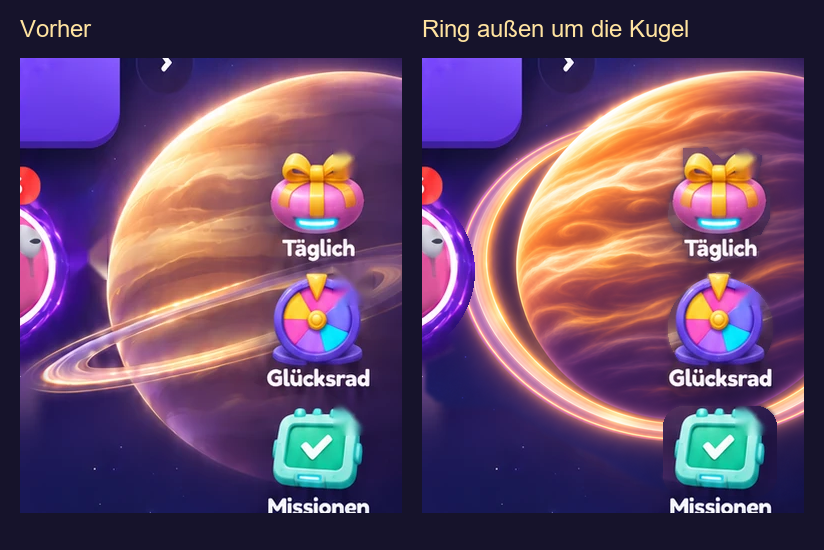
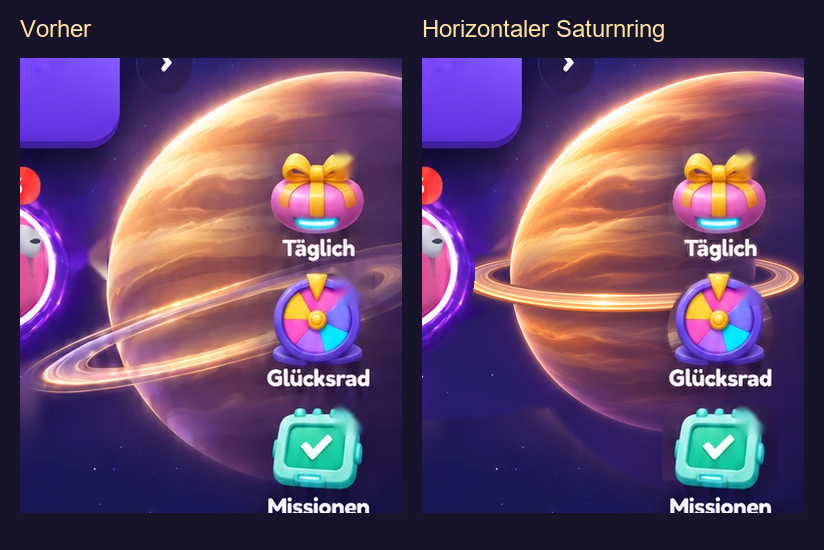
Ringplanet als horizontalen Saturnring um den Äquator korrigieren

diff --git a/Vorlage_Raw/Hauptbildschirm_Comic_v5/LIESMICH_CLAUDE.md b/Vorlage_Raw/Hauptbildschirm_Comic_v5/LIESMICH_CLAUDE.md
@@ -1,9 +1,9 @@
 # Hauptbildschirm – erneute Ringkorrektur
 
-Stand 09.11.2026, Revision v6. Der Liefername `hauptbildschirm_aktuell_v5.png` bleibt für den bestehenden Einbau erhalten und ersetzt die vorherige missverständliche Ringfassung.
+Stand 09.11.2026, Revision v7. Der Liefername `hauptbildschirm_aktuell_v5.png` bleibt für den bestehenden Einbau erhalten und ersetzt die vorherige missverständliche Ringfassung.
 
-Der Ring wird deutlich frontaler gesehen und liegt außen um die Planetenkugel. Die helle Querlinie durch die Planetenoberfläche ist entfernt. Die Kreisform und die orangebraunen Wolkenbänder sind als geschlossener Körper lesbar; der hintere obere Ringanteil verschwindet hinter der Kugel.
+Der Ring liegt nun als flache, horizontale Ellipse um den Äquator der Kugel, wie bei Saturn. Er ist kein senkrechter Halo. Der hintere obere Bogen verschwindet hinter der undurchsichtigen Kugel; nur der vordere untere Bogen überlagert sie sichtbar. Die Kugel bleibt oberhalb und unterhalb des vorderen Bogens sichtbar. Eine Überlagerung im Vordergrund bedeutet hier ausdrücklich den vor der Kugel verlaufenden Ring, nicht eine rückwärtige Linie durch den Planeten.
 
 PNG/RGB, 852 × 1846 Pixel. Neue Planetengrafik mit eingebauter Bildgenerierung, danach ausschließlich im örtlichen Planeten-/Ringbereich eingesetzt. Die Masken halten den Boss, die Titelbox, die rechten Knöpfe und Texte sowie den restlichen Bildschirm geschützt. Die Differenzprüfung bestätigt null geänderte Pixel außerhalb der örtlichen Bearbeitungsmaske und null geänderte Pixel in der UI-Schutzmaske. Innerhalb des Planeten-/Ringbereichs wurden Wolkenbänder, Ring und Glanz neu gezeichnet. Keine Spielcodeänderung.
 
-`vergleich_ring.png` zeigt die ursprüngliche Vorlage und diese neue Außenringfassung. Die Masken und `PRUEFUNG.json` sind zur Nachvollziehbarkeit enthalten. Booster-Symbole und Gegnerdateien bleiben unverändert.
+`vergleich_ring.png` zeigt die ursprüngliche Vorlage und diese neue horizontale Saturnringfassung. Die Masken und `PRUEFUNG.json` sind zur Nachvollziehbarkeit enthalten. Booster-Symbole und Gegnerdateien bleiben unverändert.
